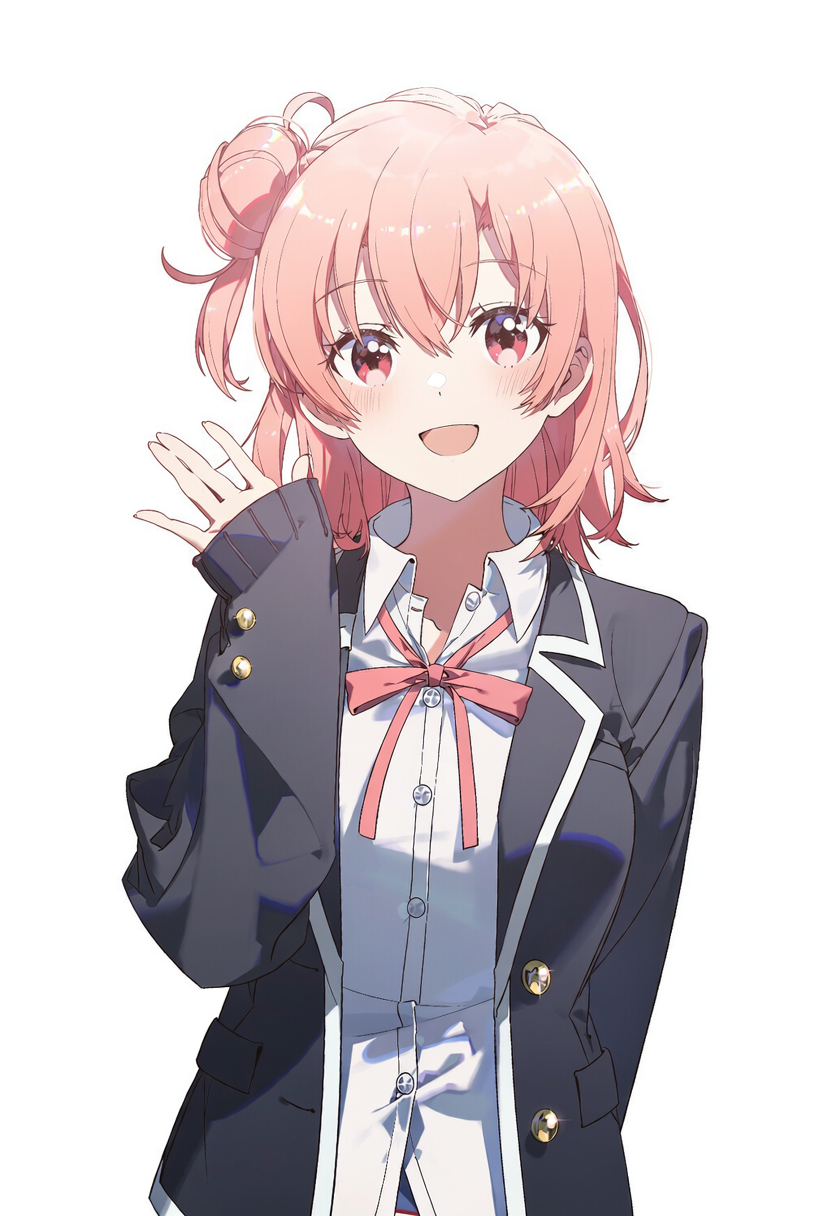
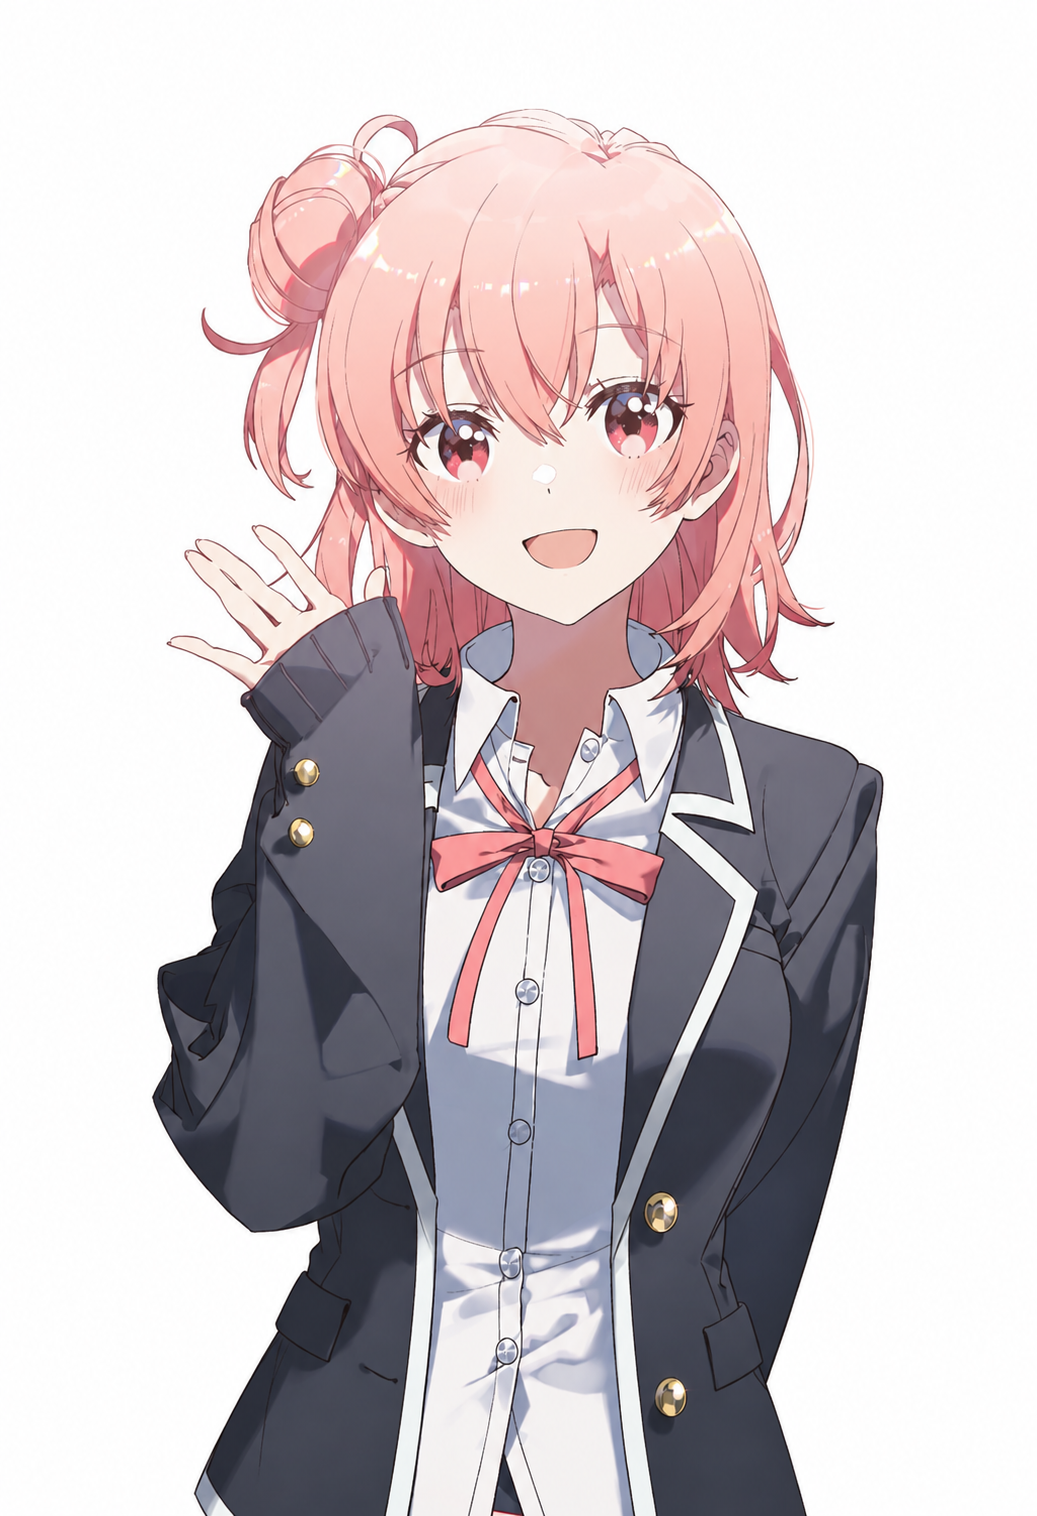
Update 由比滨结衣 default portrait

diff --git a/images/portraits/oregairu/yuigahama-yui/README.md b/images/portraits/oregairu/yuigahama-yui/README.md
@@ -1,11 +1,18 @@
 # 由比滨结衣 · 常规立绘
 
 - 当前文件：[default.png](default.png)。
-- 用户选定原图：`1girl, solo,__0.3__artist_letdie1414 __,_1.3__artist_ame (uten cancel), artist_r s-105270166.png`。
-- 尺寸：832 × 1216；大小：992,272 字节。
[1 lines of base64/hex data omitted]
-- PNG 模型记录：NovelAI Diffusion V5 0ADF9AB7。
-- 可读取的生成参数：seed 105270166；steps 28；scale 6.0；cfg_rescale 0.0；sampler k_euler_ancestral；noise_schedule karras。
+- 用户选定原图：`yuigahama-yui-waist-repaired.png`。
+- 尺寸：1037 × 1516；大小：1,364,723 字节。
[1 lines of base64/hex data omitted]
+- PNG 模型记录：未知。
+- 可读取的生成参数：seed 未知；steps 未知；scale 未知；cfg_rescale 未知；sampler 未知；noise_schedule 未知。
 - 原图字节及内嵌数据完整保留，没有裁切、缩放、抠图或重新编码。
 - 当前默认形象的运行时引用以状态栏 portraitsSB 为准；不随剧情着装自动切换。
 - 图片选定不代替真实 SillyTavern 与实际设备显示验收。
+
+## 本次选定版本
+
+- 在原立绘基础上适度收拢西装外套和白衬衫腰侧，保留挥手姿势与原有体型。
+- 本图经 Codex 图像编辑生成并由用户确认；本次上传未再次裁剪、缩放或重绘。
+- 当前目录固定使用 default.png，旧版已被替换，不另保留旧图文件；Git 历史可回溯。
+- 编辑成稿未携带可读取的 NovelAI 参数，旧版参数不能作为当前修复版的复现参数。
